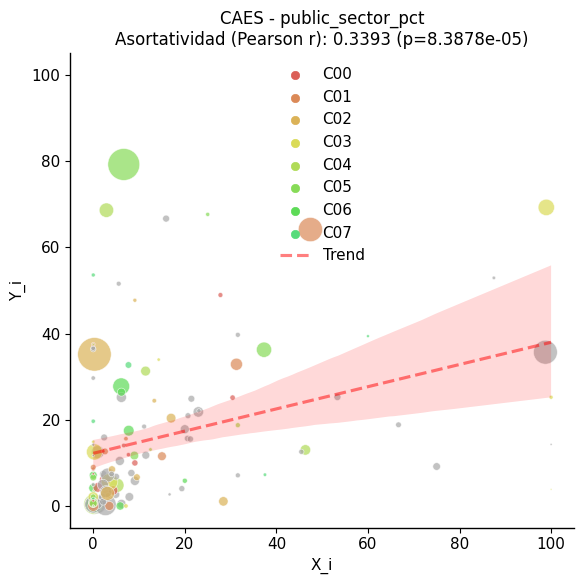
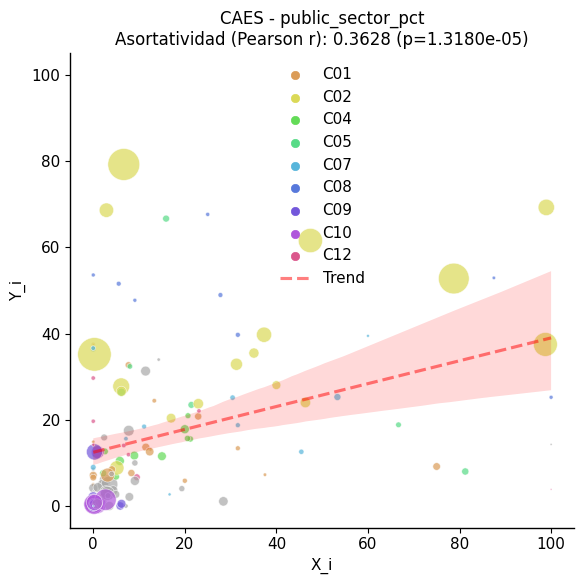
Refactor edge weight correlation computations and enhance community analysis functions for improved visualization and clarity

diff --git a/src/plotting.py b/src/plotting.py
@@ -1857,49 +1857,13 @@ def compute_and_plot_edge_correlation(
 	This function also prints and embeds the Pearson correlation (assortativity)
 	computed on the plotted points.
 	"""
-	valid_nodes = {node for node, val in feature_map.items() if np.isfinite(val)}
+	# Reuse shared helper to compute per-node neighbor-average (Y_i)
+	node_y = ut.compute_node_neighbor_mean(G, feature_map, weight_attr="weight")
 
-	x_vals_map = {}
-	y_vals_map = {u: [] for u in valid_nodes}
-	edge_weights = {u: [] for u in valid_nodes}
-
-	for u, v, data in G.edges(data=True):
-		if u in valid_nodes and v in valid_nodes:
-			# Undirected, we add both (u,v) and (v,u) to make it symmetric
-			w = data.get("weight", 0.0)
-
-			if np.isfinite(feature_map[u]) and np.isfinite(feature_map[v]):
-				x_vals_map[u] = feature_map[u]
-				y_vals_map[u].append(feature_map[v])
-				edge_weights[u].append(w)
-
-				x_vals_map[v] = feature_map[v]
-				y_vals_map[v].append(feature_map[u])
-				edge_weights[v].append(w)
-
-	x_vals = []
-	y_vals = []
-	plotted_nodes = []
-	for u in x_vals_map:
-		# For each node, we take its feature value and the average of its neighbors' feature values (weighted if desired)
-		if not y_vals_map[u]:
-			continue
-		x_vals.append(x_vals_map[u])
-		# Safely handle zero-sum weights: fall back to unweighted mean
-		try:
-			weights_arr = np.asarray(edge_weights[u], dtype=float)
-			if weights_arr.size == 0:
-				# No neighbor values (should be caught by earlier check), but guard anyway
-				y_vals.append(np.mean(y_vals_map[u]))
-			elif np.isclose(weights_arr.sum(), 0.0):
-				# All weights sum to zero -> cannot normalize, use unweighted mean
-				y_vals.append(np.mean(y_vals_map[u]))
-			else:
-				y_vals.append(np.average(y_vals_map[u], weights=weights_arr))
-		except Exception:
-			# As a last resort, use unweighted mean to avoid crashing the pipeline
-			y_vals.append(np.mean(y_vals_map[u]))
-		plotted_nodes.append(u)
+	# Nodes for plotting are those with a computed neighbor-average
+	plotted_nodes = list(node_y.keys())
+	x_vals = [float(feature_map[u]) for u in plotted_nodes]
+	y_vals = [float(node_y[u]) for u in plotted_nodes]
 
 	if len(x_vals) < 2:
 		print(
@@ -1907,7 +1871,15 @@ def compute_and_plot_edge_correlation(
 		)
 		return
 
-	highlight_set = set(highlight_communities) if highlight_communities else None
+	if highlight_communities is None:
+		highlight_set = ut.get_top_mean_assortativity_communities(
+			G, feature_map, community_map, top_k=7, order="desc"
+		) + ut.get_top_mean_assortativity_communities(
+			G, feature_map, community_map, top_k=2, order="asc"
+		)
+	else:
+		highlight_set = set(highlight_communities)
+
 	raw_node_sizes = node_size_map or {}
 
 	def _node_color(node_id: int) -> str:
@@ -2049,32 +2021,14 @@ def compute_edge_assortativity_pearson(
 	Returns (pearson_r, p_value, n_points). If fewer than 2 valid points exist,
 	returns (nan, nan, n_points).
 	"""
-	# Only keep nodes that have finite feature values
-	valid_nodes = {node for node, val in feature_map.items() if np.isfinite(val)}
-
-	x_vals_map: dict = {}
-	y_vals_map: dict = {u: [] for u in valid_nodes}
-	edge_weights: dict = {u: [] for u in valid_nodes}
-
-	for u, v, data in G.edges(data=True):
-		if u in valid_nodes and v in valid_nodes:
-			w = data.get(weight_attr, 0.0)
-			if np.isfinite(feature_map[u]) and np.isfinite(feature_map[v]):
-				x_vals_map[u] = feature_map[u]
-				y_vals_map[u].append(feature_map[v])
-				edge_weights[u].append(w)
-
-				x_vals_map[v] = feature_map[v]
-				y_vals_map[v].append(feature_map[u])
-				edge_weights[v].append(w)
+	# Reuse helper to compute per-node neighbor-average and avoid duplicated logic
+	node_y = ut.compute_node_neighbor_mean(G, feature_map, weight_attr=weight_attr)
 
 	x_vals: list[float] = []
 	y_vals: list[float] = []
-	for u in x_vals_map:
-		if not y_vals_map[u]:
-			continue
-		x = float(x_vals_map[u])
-		y = float(np.average(y_vals_map[u], weights=edge_weights[u]))
+	for u in node_y.keys():
+		x = float(feature_map.get(u, float("nan")))
+		y = float(node_y[u])
 		if np.isfinite(x) and np.isfinite(y):
 			x_vals.append(x)
 			y_vals.append(y)

diff --git a/src/utils.py b/src/utils.py
@@ -5,6 +5,8 @@ from pathlib import Path
 import re
 from datetime import date
 from collections import Counter, defaultdict
+from collections.abc import Mapping
+import numpy as np
 
 
 @dataclass(frozen=True)
@@ -302,3 +304,93 @@ def filter_communities_by_observations(
 		for node, comm_id in communities.items()
 		if comm_id in valid_communities
 	}
+
+
+def compute_node_neighbor_mean(G, feature_map: Mapping, *, weight_attr: str = "weight") -> dict:
+	"""Compute weighted (or unweighted) average neighbor feature for each node.
+
+	Returns a dict mapping node -> average(neighbor_feature_values). Only nodes
+	with at least one neighbor with a finite feature value are returned.
+	"""
+	valid_nodes = {n for n, val in feature_map.items() if np.isfinite(val)}
+
+	y_vals_map: dict = {u: [] for u in valid_nodes}
+	edge_weights: dict = {u: [] for u in valid_nodes}
+
+	for u, v, data in G.edges(data=True):
+		if u in valid_nodes and v in valid_nodes:
+			w = data.get(weight_attr, 0.0)
+			if np.isfinite(feature_map[u]) and np.isfinite(feature_map[v]):
+				y_vals_map[u].append(feature_map[v])
+				edge_weights[u].append(w)
+
+				y_vals_map[v].append(feature_map[u])
+				edge_weights[v].append(w)
+
+	node_y = {}
+	for u in y_vals_map:
+		neigh_vals = y_vals_map[u]
+		if not neigh_vals:
+			continue
+		weights = np.asarray(edge_weights[u], dtype=float)
+		if weights.size == 0 or np.isclose(weights.sum(), 0.0):
+			node_y[u] = float(np.mean(neigh_vals))
+		else:
+			node_y[u] = float(np.average(neigh_vals, weights=weights))
+
+	return node_y
+
+
+def get_top_mean_assortativity_communities(
+	G,
+	feature_map: Mapping,
+	community_map: Mapping,
+	*,
+	top_k: int = 4,
+	order: str = "desc",
+	weight_attr: str = "weight",
+) -> list:
+	"""Return the community ids with the most extreme mean neighbor-feature values.
+
+	This computes for each node the (weighted) average of neighbor feature values
+	(the $Y_i$ axis in the assortativity plots), then averages those $Y_i$ per
+	community and returns the top-k communities with largest (order='desc') or
+	smallest (order='asc') mean $Y_i$.
+
+	Args:
+		G: networkx Graph (undirected)
+		feature_map: mapping node -> numeric feature value
+		community_map: mapping node -> community id
+		top_k: number of communities to return
+		order: 'desc' for highest means, 'asc' for lowest means
+		weight_attr: edge attribute to use as weight (falls back to unweighted mean
+					 if weights sum to zero)
+
+	Returns:
+		List of community ids (length <= top_k) ordered by extremity.
+	"""
+	if community_map is None:
+		return []
+
+	# Compute per-node neighbor-average using local helper
+	node_y = compute_node_neighbor_mean(G, feature_map, weight_attr=weight_attr)
+
+	# Aggregate Y_i by community and compute community mean
+	comm_to_vals = defaultdict(list)
+	for node, y in node_y.items():
+		comm = community_map.get(node)
+		if comm is None:
+			continue
+		if not np.isfinite(y):
+			continue
+		comm_to_vals[comm].append(y)
+
+	# Compute mean per community
+	comm_mean = {c: float(np.mean(vals)) for c, vals in comm_to_vals.items() if vals}
+	if not comm_mean:
+		return []
+
+	reverse = order.lower() == "desc"
+	sorted_comms = sorted(comm_mean.items(), key=lambda kv: kv[1], reverse=reverse)
+	top = [comm for comm, _ in sorted_comms[:top_k]]
+	return top

diff --git a/scripts/05_edge_weight_correlation.py b/scripts/05_edge_weight_correlation.py
@@ -30,9 +30,9 @@ def main() -> None:
 		raise KeyError("No feature wildcard found (expected 'continuous_feature').")
 
 	id_col = snakemake.config[class_]["id"]
-	pos_df = pd.read_csv(snakemake.input[0], dtype={id_col: int})
-	community_col = _resolve_community_column(pos_df, algorithm)
-	pos_df = pos_df.dropna(subset=[id_col, community_col])
+	nodelist = pd.read_csv(snakemake.input[0], dtype={id_col: int})
+	community_col = _resolve_community_column(nodelist, algorithm)
+	pos_df = nodelist.dropna(subset=[id_col, community_col])
 
 	# Cast nodes to int instantly to prevent string mismatch bugs
 	graph = nx.read_gexf(snakemake.input[1], node_type=int)
@@ -54,7 +54,6 @@ def main() -> None:
 	feature_map = plot_df.set_index(id_col)[feature_name].to_dict()
 	community_map = plot_df.set_index(id_col)[community_col].to_dict()
 	node_size_map = plot_df.set_index(id_col)["n_obs"].to_dict()
-	highlight_communities = utils.get_top_communities(community_map, top_n=8)
 
 	from seaborn import hls_palette
 
@@ -72,7 +71,7 @@ def main() -> None:
 		color_map=color_map,
 		community_map=community_map,
 		node_size_map=node_size_map,
-		highlight_communities=highlight_communities,
+		highlight_communities=None,
 		title=default_title,
 		output_path=snakemake.output[0],
 		save=True,
